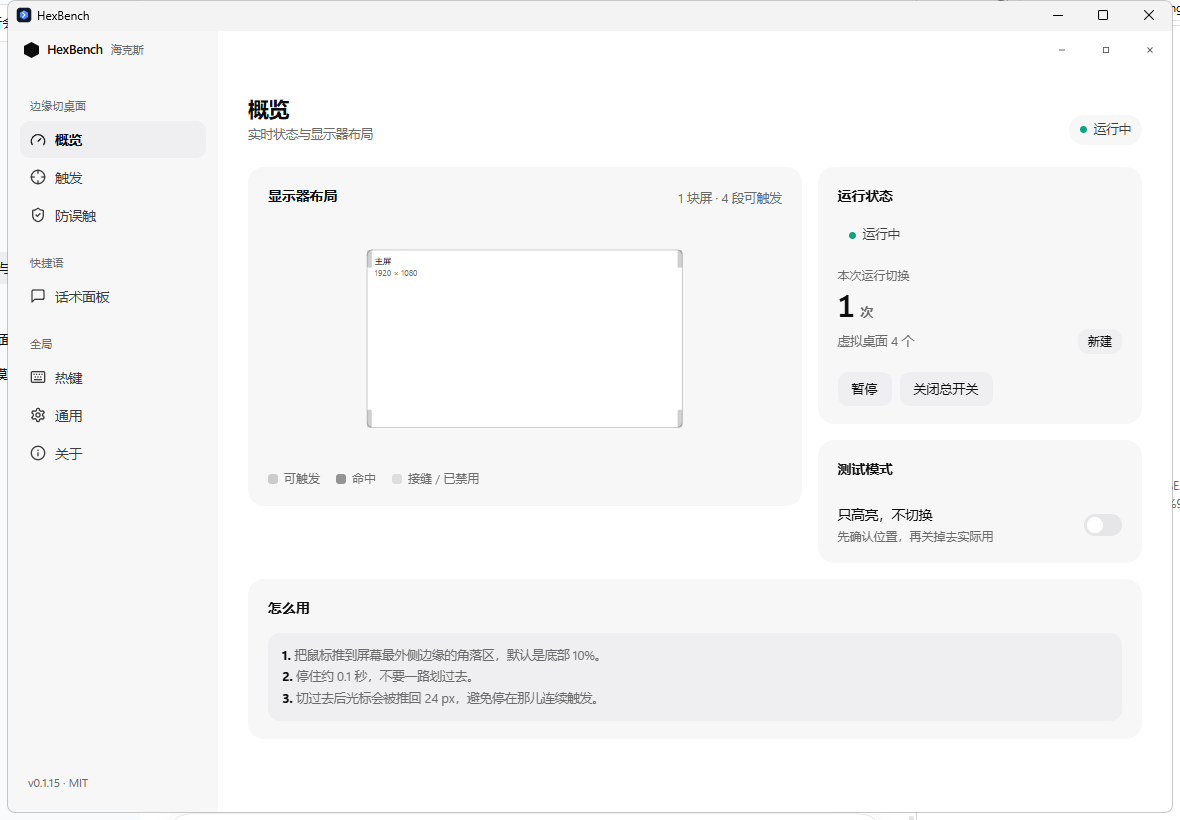
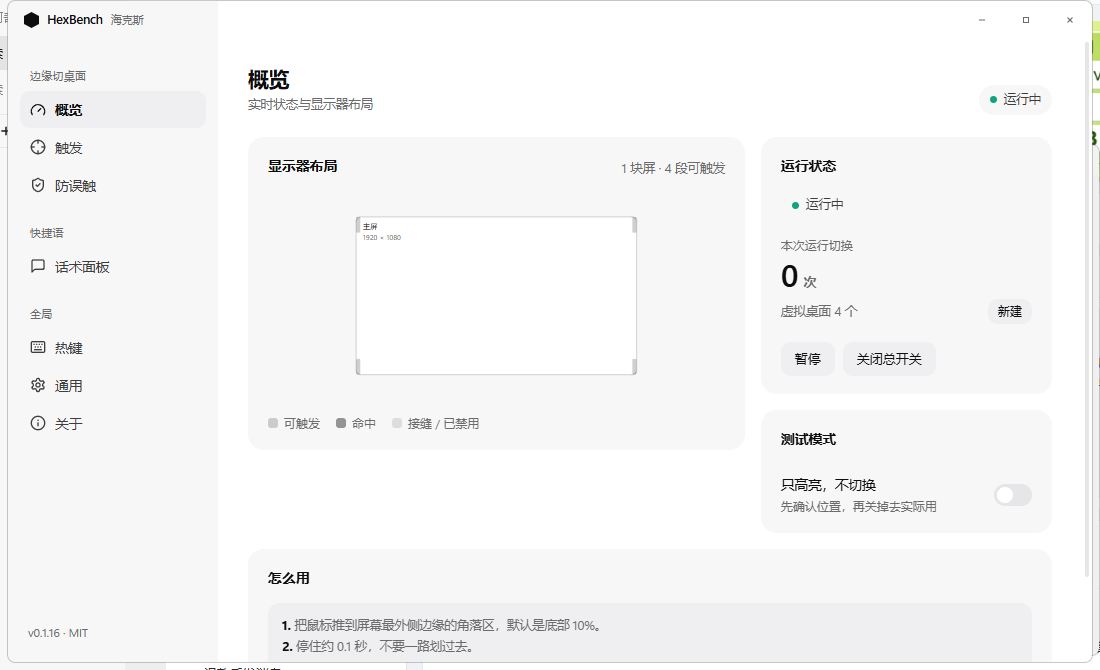
0.1.17: 真正去掉系统标题栏（window-state 不再恢复边框）；补窗口权限；标题栏自绘拖动与双击最大化

diff --git a/src/components/TitleBar.tsx b/src/components/TitleBar.tsx
@@ -1,4 +1,5 @@
-import { useEffect, useState } from "react";
+import { useEffect, useRef, useState } from "react";
+import { invoke } from "@tauri-apps/api/core";
 import { getCurrentWindow } from "@tauri-apps/api/window";
 
 type ResizeDirection =
@@ -26,6 +27,7 @@ const EDGES: Array<[string, ResizeDirection]> = [
 
 export function TitleBar() {
   const [maximized, setMaximized] = useState(false);
+  const lastPress = useRef(0);
 
   useEffect(() => {
     const win = getCurrentWindow();
@@ -60,13 +62,27 @@ export function TitleBar() {
         />
       ))}
 
-      <header className="titlebar" data-tauri-drag-region>
-        <span className="titlebar-brand" data-tauri-drag-region>
+      <header
+        className="titlebar"
+        onPointerDown={(event) => {
+          if (event.button !== 0) return;
+          if ((event.target as HTMLElement).closest(".titlebar-actions")) return;
+          const now = Date.now();
+          if (now - lastPress.current < 350) {
+            lastPress.current = 0;
+            void win.toggleMaximize();
+            return;
+          }
+          lastPress.current = now;
+          void invoke("begin_drag");
+        }}
+      >
+        <span className="titlebar-brand">
           <span className="titlebar-logo" aria-hidden="true" />
-          <span className="titlebar-name" data-tauri-drag-region>
+          <span className="titlebar-name">
             HexBench
           </span>
-          <span className="titlebar-sub" data-tauri-drag-region>
+          <span className="titlebar-sub">
             海克斯
           </span>
         </span>

diff --git a/crates/hexbench-core/src/sys.rs b/crates/hexbench-core/src/sys.rs
@@ -32,7 +32,7 @@ use windows_sys::Win32::UI::WindowsAndMessaging::{
     EnumWindows, GetAncestor, GetClassNameW, GetCursorPos, GetForegroundWindow, GetWindowLongW,
     GetWindowRect, GetWindowTextLengthW, GetWindowTextW, GetWindowThreadProcessId, IsWindowVisible,
     SetCursorPos, SetWindowLongW, SetWindowPos, WindowFromPoint, GA_ROOT, GWL_EXSTYLE,
-    SWP_FRAMECHANGED, SWP_NOMOVE, SWP_NOSIZE, SWP_NOZORDER, WS_EX_NOACTIVATE, WS_EX_TOOLWINDOW,
+    SWP_FRAMECHANGED, SWP_NOACTIVATE, SWP_NOMOVE, SWP_NOSIZE, SWP_NOZORDER, WS_EX_NOACTIVATE, WS_EX_TOOLWINDOW,
 };
 
 use crate::geometry::EdgeProbe;
@@ -457,6 +457,47 @@ pub fn is_locked() -> bool {
     }
 }
 
+/// Drag the window from its custom title bar.
+///
+/// A window without a system frame does not answer the caption drag, so the
+/// title bar moves it from here: follow the cursor while the left button is
+/// held, then stop.
+pub fn start_manual_drag(hwnd: isize) {
+    thread::spawn(move || {
+        let hwnd = hwnd as HWND;
+        let mut origin = POINT::default();
+        let mut rect = RECT::default();
+        // SAFETY: plain queries on a live window owned by this process.
+        unsafe {
+            if GetCursorPos(&mut origin) == 0 || GetWindowRect(hwnd, &mut rect) == 0 {
+                return;
+            }
+        }
+        loop {
+            // SAFETY: same.
+            if unsafe { GetAsyncKeyState(VK_LBUTTON as i32) } >= 0 {
+                break;
+            }
+            let mut now = POINT::default();
+            // SAFETY: same.
+            unsafe {
+                if GetCursorPos(&mut now) == 0 {
+                    break;
+                }
+                SetWindowPos(
+                    hwnd,
+                    std::ptr::null_mut(),
+                    rect.left + (now.x - origin.x),
+                    rect.top + (now.y - origin.y),
+                    0,
+                    0,
+                    SWP_NOSIZE | SWP_NOZORDER | SWP_NOACTIVATE,
+                );
+            }
+            thread::sleep(Duration::from_millis(8));
+        }
+    });
+}
 /// Move the cursor (used to nudge it back inside after a switch).
 pub fn set_cursor_pos(x: i32, y: i32) -> bool {
     // SAFETY: plain values.

diff --git a/src-tauri/src/lib.rs b/src-tauri/src/lib.rs
@@ -1198,6 +1198,14 @@ fn spawn_panel_follower(app: AppHandle) {
     });
 }
 
+/// Start moving the window from the custom title bar.
+#[tauri::command]
+fn begin_drag(window: tauri::WebviewWindow) {
+    if let Ok(hwnd) = window.hwnd() {
+        hexbench_core::sys::start_manual_drag(hwnd.0 as isize);
+    }
+}
+
 #[tauri::command]
 fn create_virtual_desktop(state: State<'_, AppState>) -> Result<(), String> {
     let origin = hexbench_core::sys::virtual_desktop_state().map(|(_, index)| index);
@@ -1265,6 +1273,8 @@ fn open_main_now(app: &AppHandle) {
         .title("HexBench")
         .inner_size(980.0, 660.0)
         .min_inner_size(840.0, 560.0)
+        // The app draws its own title bar and window buttons.
+        .decorations(false)
         .center()
         .build();
 }
@@ -1511,6 +1521,12 @@ pub fn run() {
                 // and changes size on collapse; letting the plugin restore a
                 // stale size would fight both.
                 .with_denylist(&["phrases", "overlay"])
+                // The window is frameless by design: restoring a saved
+                // "decorated" flag would bring the system title bar back.
+                .with_state_flags(
+                    tauri_plugin_window_state::StateFlags::all()
+                        & !tauri_plugin_window_state::StateFlags::DECORATIONS,
+                )
                 .build(),
         )
         .plugin(
@@ -1559,6 +1575,7 @@ pub fn run() {
             set_autostart,
             open_config_folder,
             create_virtual_desktop,
+            begin_drag,
             overlay_zones,
             show_trigger_overlay,
             running_apps,
